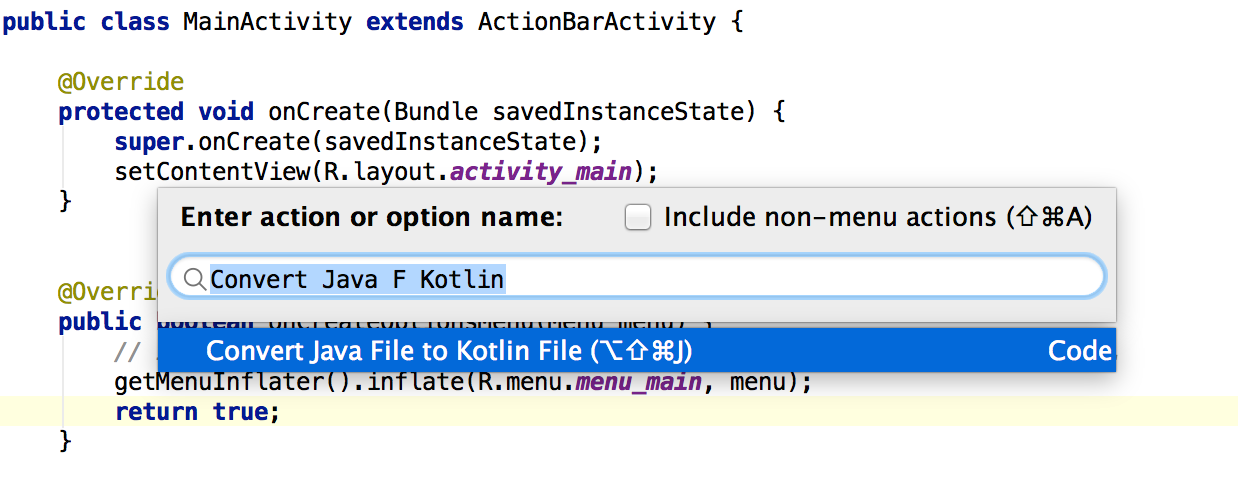
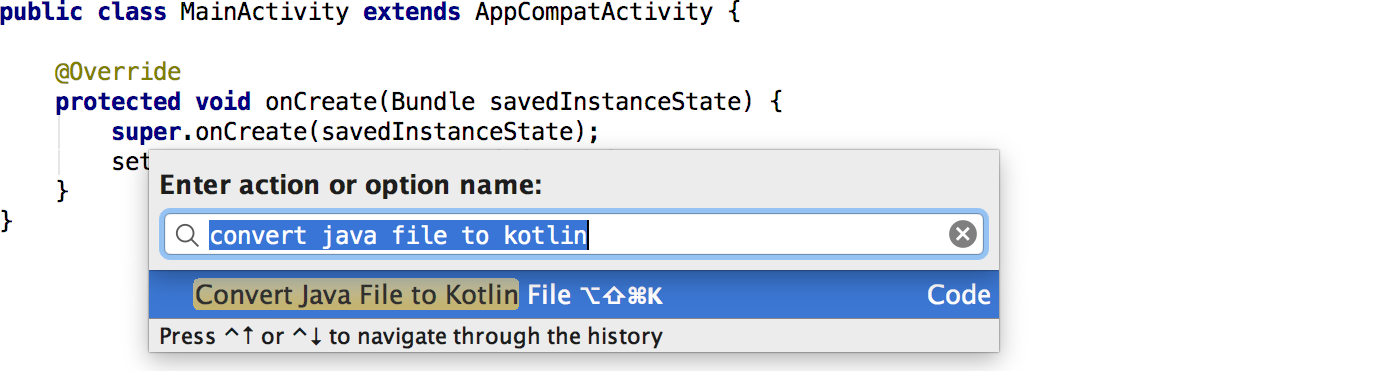
Updated kotlin-android tutorial

diff --git a/pages/docs/tutorials/kotlin-android.md b/pages/docs/tutorials/kotlin-android.md
@@ -3,25 +3,25 @@ type: tutorial
 layout: tutorial
 title: "Getting started with Android and Kotlin"
 description: "This tutorial walks us through creating a simple Kotlin application for Android using Android Studio."
-authors: Philip Torchinsky, Svetlana Isakova
-showAuthorInfo: true
-date: 2015-07-25
-related:
-    - getting-started.md
+authors: 
+showAuthorInfo: false
 ---
+
 ### Installing the Kotlin plugin
 First, if using Android Studio, you'll need to install the Kotlin plugin.
 Go to _File \| Settings \| Plugins \| Install JetBrains plugin..._ and then search for and install *Kotlin*.
+If you are looking at the "Welcome to Android Studio" screen, choose _Configure \| Plugins \| Install JetBrains plugin..._
 You'll need to restart the IDE after this completes.
 
 ### Creating a project
-It’s extremely easy to start using Kotlin for Android development! In this tutorial we’ll follow the warming up process with Android Studio.
+
+It’s extremely easy to start using Kotlin for Android development. 
+In this tutorial we’ll follow the warming up process with Android Studio.
 If using Intellij IDEA with Android, the process is almost the same.
 
-First let's create a new project. We choose **Start a new Android Studio project** or **File | New project**.
-The following dialogs walk us through the process of new project creation. 
-We need to name the project and choose which Android SDK version we have installed. Most options can be left with their default values, so we can press 'Enter' several
-times.
+First let's create a new project. Choose **Start a new Android Studio project** or **File | New project**.
+The following dialogs walk you through the process of new project creation. 
+You need to name the project and choose which Android SDK version you have installed. Most options can be left with their default values, so you can press 'Enter' several times.
 
 Name the project:
 ![Dialog 1]({{ url_for('tutorial_img', filename='kotlin-android/0-create-new-project.png') }})
@@ -38,7 +38,7 @@ Name the activity:
 
 ![Dialog 4]({{ url_for('tutorial_img', filename='kotlin-android/3-create-new-project.png') }})
 
-We've created a new project with one Java activity that was generated for us.
+You've created a new project with one Java activity that was generated for you.
 
 But now we'd like to add some code in Kotlin. The easiest way to start using Kotlin is to convert automatically Java activity into Kotlin one.
 Please note that anytime instead of looking through documentation for a new way to express an old pattern, 
@@ -47,52 +47,44 @@ you can write it in Java, then copy-paste Java code into Kotlin file, and Intell
 
 #### Converting Java code to Kotlin
 
-Open MainActivity.java file. Then invoke action **Convert Java File to Kotlin File**. You can do it by several ways.
+Open `MainActivity.java` file. Then invoke action **Convert Java File to Kotlin File**. You can do it by several ways.
 The easiest one is to invoke [Find Action](https://www.jetbrains.com/idea/help/navigating-to-action.html) and start typing an action name (like in a screencast below). 
-Alternatively we can call this option via the _Code \| Convert Java File to Kotlin File_  menu entry or by using the corresponding shortcut (we can find it at the menu entry).
+Alternatively you can call this option via the _Code \| Convert Java File to Kotlin File_  menu entry or by using the corresponding shortcut (you can find it at the menu entry).
  
 ![Convert]({{ url_for('tutorial_img', filename='kotlin-android/convert-java-to-kotlin.png') }})
 
-After the conversion we should have an activity written in Kotlin.
+After the conversion you should have an activity written in Kotlin.
 
 ![Koltin-Activity]({{ url_for('tutorial_img', filename='kotlin-android/converted-code.png') }})
 
 #### Configuring Kotlin in the project
 
-When adding a new Kotlin file, IntelliJ IDEA (and Android Studio) automatically prompts us as to whether we'd like to configure the Kotlin runtime for the project. However, currently, converting existing Java
-file does not prompt this action. Therefore we have to invoke it manually (via [Find Action](https://www.jetbrains.com/idea/help/navigating-to-action.html)):
+If you start editing this file, Android Studio shows you a prompt that Kotlin is not configured, so you can configure it.
 
-![Config-Kotlin]({{ url_for('tutorial_img', filename='kotlin-android/configure-kotlin-in-project.png') }})
+![Config-Kotlin]({{ url_for('tutorial_img', filename='kotlin-android/kotlin-not-configured.png') }})
 
-We are then prompted for the version of Kotlin. Choose the latest available from the list of installed versions.
+You are then prompted for the version of Kotlin. Choose the latest available from the list of installed versions.
 
 ![Config-Kotlin-Details]({{ url_for('tutorial_img', filename='kotlin-android/configure-kotlin-in-project-details.png') }})
 
-After we configure Kotlin, build.gradle file for the application should be updated. 
-Now we can see that _apply plugin: 'kotlin-android'_ and the dependencies were added. 
+After you configure Kotlin, build.gradle file for the application should be updated. 
+Now you can see that _apply plugin: 'kotlin-android'_ and the dependencies were added. 
 
 *(For more details how to set up gradle for your project, please check [Using Gradle](/docs/reference/using-gradle.html))*
-
-
-The last thing to do is to sync the project. We can press 'Sync Now' in a prompt or invoke an action **Sync Project with Gradle Files**.
  
 ![Sync-Project-With-Gradle]({{ url_for('tutorial_img', filename='kotlin-android/sync-project-with-gradle.png') }})
 
-### Making user interface changes
+The last thing to do is to sync the project. You can press 'Sync Now' in a prompt or invoke an action **Sync Project with Gradle Files**.
 
-Now that the project has been set up, we can work with the layout using IntelliJ IDEA's visual designer.
-There is nothing different in terms of layout when working with Kotlin, thus this is similar to regular Android Java development.
-While using layout designer in IntelliJ IDEA, note there are two tabs in the designer: **Text** and **Design**. The latter shows how the layout looks, while the former allows fine tuning with XML editing.
-
-![Layout Editor]({{ url_for('tutorial_img', filename='kotlin-android/layout-editor.png') }})
+![Sync-Project-With-Gradle-2]({{ url_for('tutorial_img', filename='kotlin-android/sync-project-with-gradle-2.png') }})
 
 ### Building and publishing the Kotlin application for Android
 
+You are now ready to build the application and run it on an emulator or device.
+This works in exactly the same way as in Java.
+You can make a release of the application and sign it similarly to what you do for an Android application written in Java. 
+
 Kotlin has a rather small runtime file size: the library is approximately {{ site.data.releases.latest.runtime_size }} (as of {{ site.data.releases.latest.version }}). This means Kotlin adds just a little to .apk file size.
-
-We are now ready to build the application in debug mode (**\<Shift+F9\>**), run it on an emulator or device (**\<Shift+F10\>**), or build signed release of the application to upload it to Google Play or another application store.
-
-We can make a release of the application and sign it similarly to what we do for an Android application written in Java. 
 
 Kotlin compiler produces byte-code, thus there really is no difference in terms of look and feel of Kotlin applications versus those written in Java.
 
